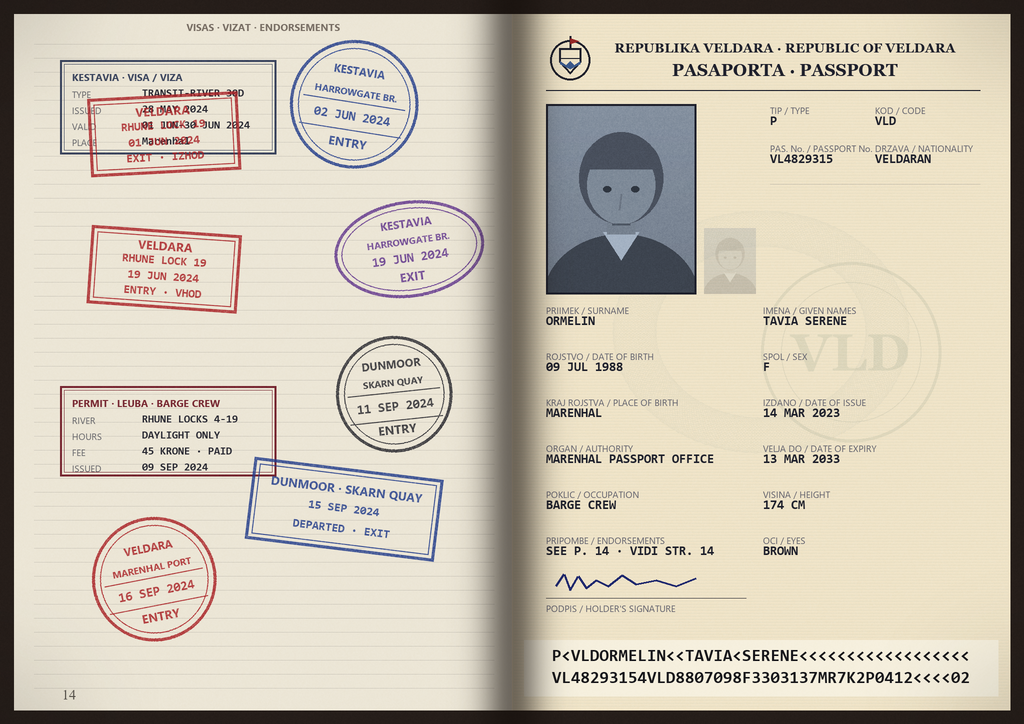
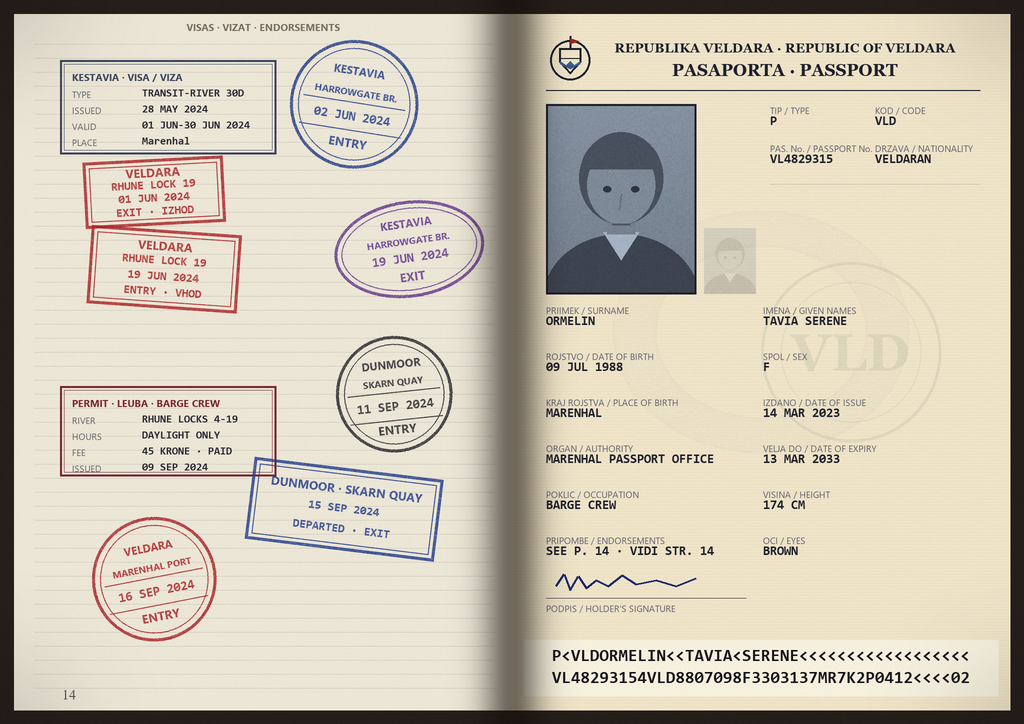
fix(layout): place Veldara exit stamp clear of other elements

Changed region(s): [[0.0625, 0.1215, 0.25, 0.3343]]

diff --git a/gen_passport.py b/gen_passport.py
@@ -189,7 +189,7 @@ printed_box(lx + 46 * S, M + 372 * S, lx + 262 * S, M + 462 * S, "PERMIT · LEUB
             col=(120, 40, 50))
 
 # stamps
-stamp_rect(lx + 150 * S, M + 120 * S, 150, 78, ["VELDARA", "RHUNE LOCK 19", dm(VEXIT), "EXIT · IZHOD"], RED, 3, 0)
+stamp_rect(lx + 140 * S, M + 178 * S, 140, 66, ["VELDARA", "RHUNE LOCK 19", dm(VEXIT), "EXIT · IZHOD"], RED, 3, 0)
 stamp_round(lx + 340 * S, M + 90 * S, "Harrowgate Br.", "KESTAVIA", "ENTRY", STAMPS[0][3], BLUE, -9)
 stamp_oval(lx + 395 * S, M + 235 * S, 150, 96, "Harrowgate Br.", "KESTAVIA", "EXIT", STAMPS[1][3], VIOL, 8)
 stamp_rect(lx + 150 * S, M + 255 * S, 150, 78, ["VELDARA", "RHUNE LOCK 19", dm(STAMPS[2][3]), "ENTRY · VHOD"], RED, -4, 0)
